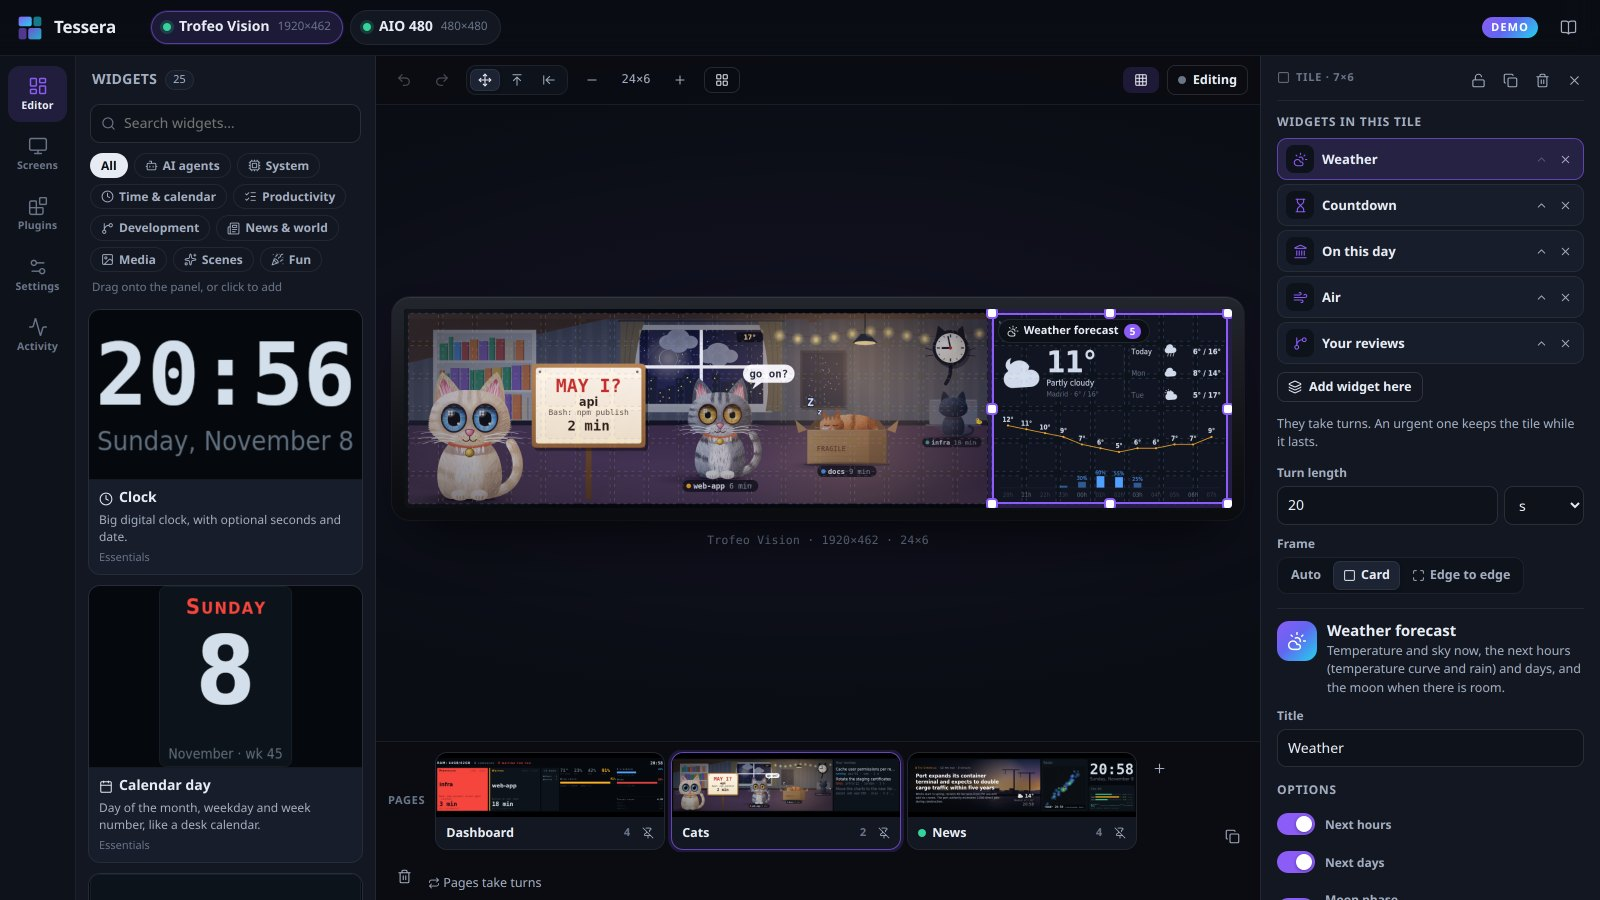
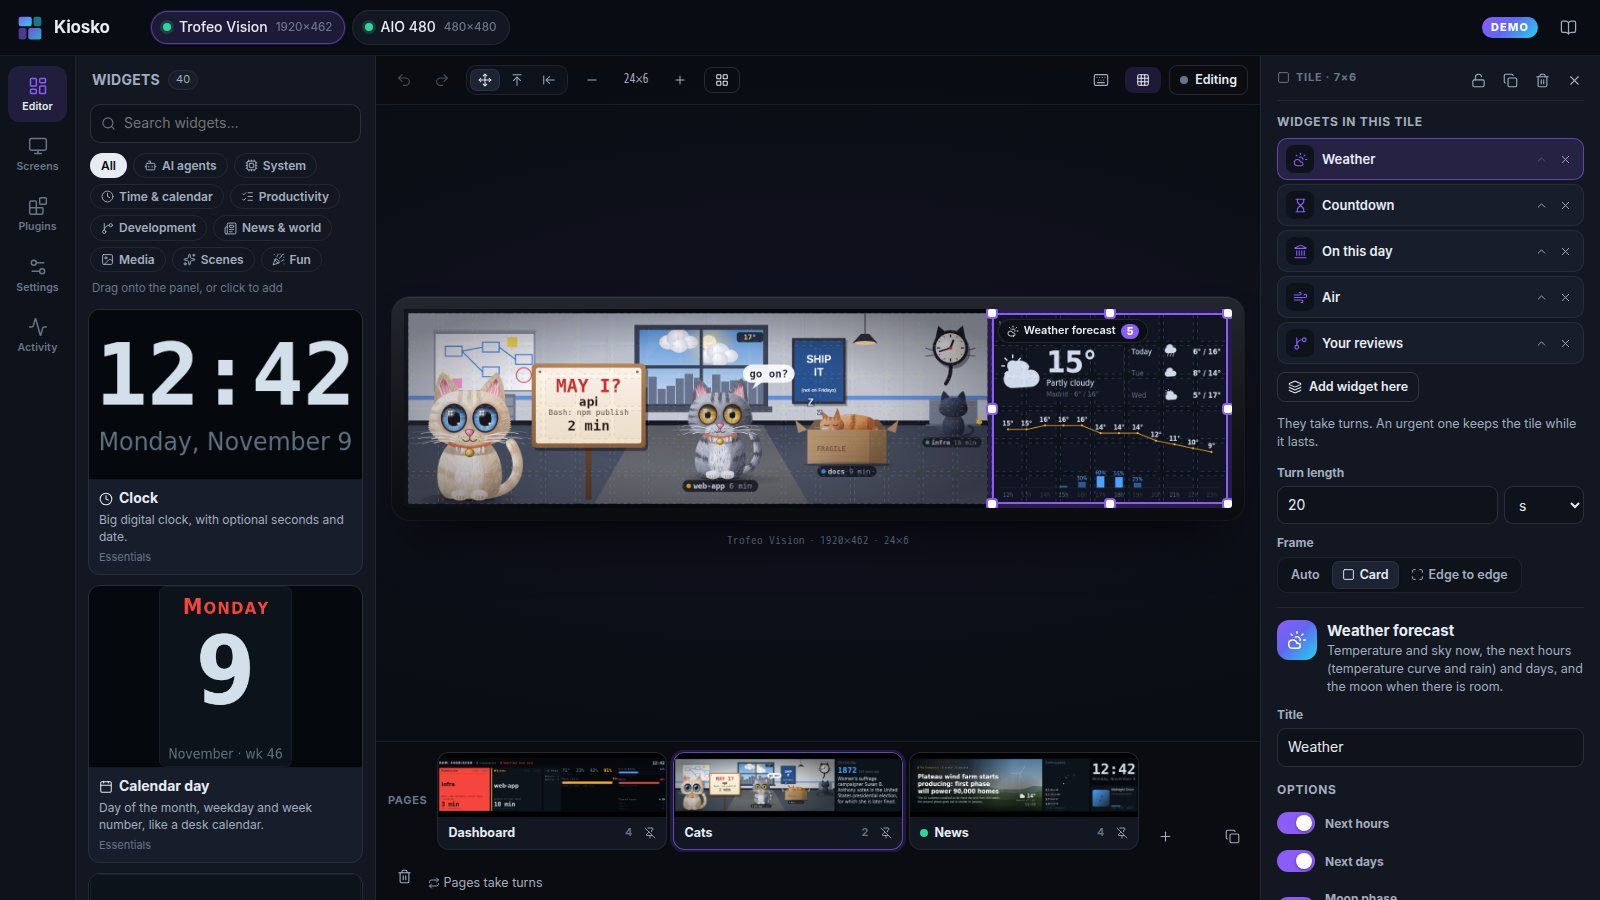
docs: retake the README screenshots, reproducibly
scripts/screenshots-docker.sh starts Kiosko with the showcase config in
demo mode inside the official Playwright container (with Inter, the
editor's font) and scripts/screenshots.mjs takes the six README shots.
They now show the Kiosko name and the new plugins.

diff --git a/CONTRIBUTING.md b/CONTRIBUTING.md
@@ -11,6 +11,9 @@ Thanks for wanting to make Kiosko better.
   `npm run check && npm test`. For widgets, render them with
   `node --conditions=source scripts/render-widgets.ts --plugin <id>` and look
   at the PNGs at their smallest declared size.
+- **README screenshots:** `scripts/screenshots-docker.sh` retakes
+  `docs/img/*.jpg` from the showcase config in demo mode, inside the official
+  Playwright container (needs Docker; nothing is installed on your machine).
 
 Conventions: TypeScript run directly by Node (type stripping, so no enums,
 namespaces or constructor parameter properties), ESM only, `.ts` extensions
